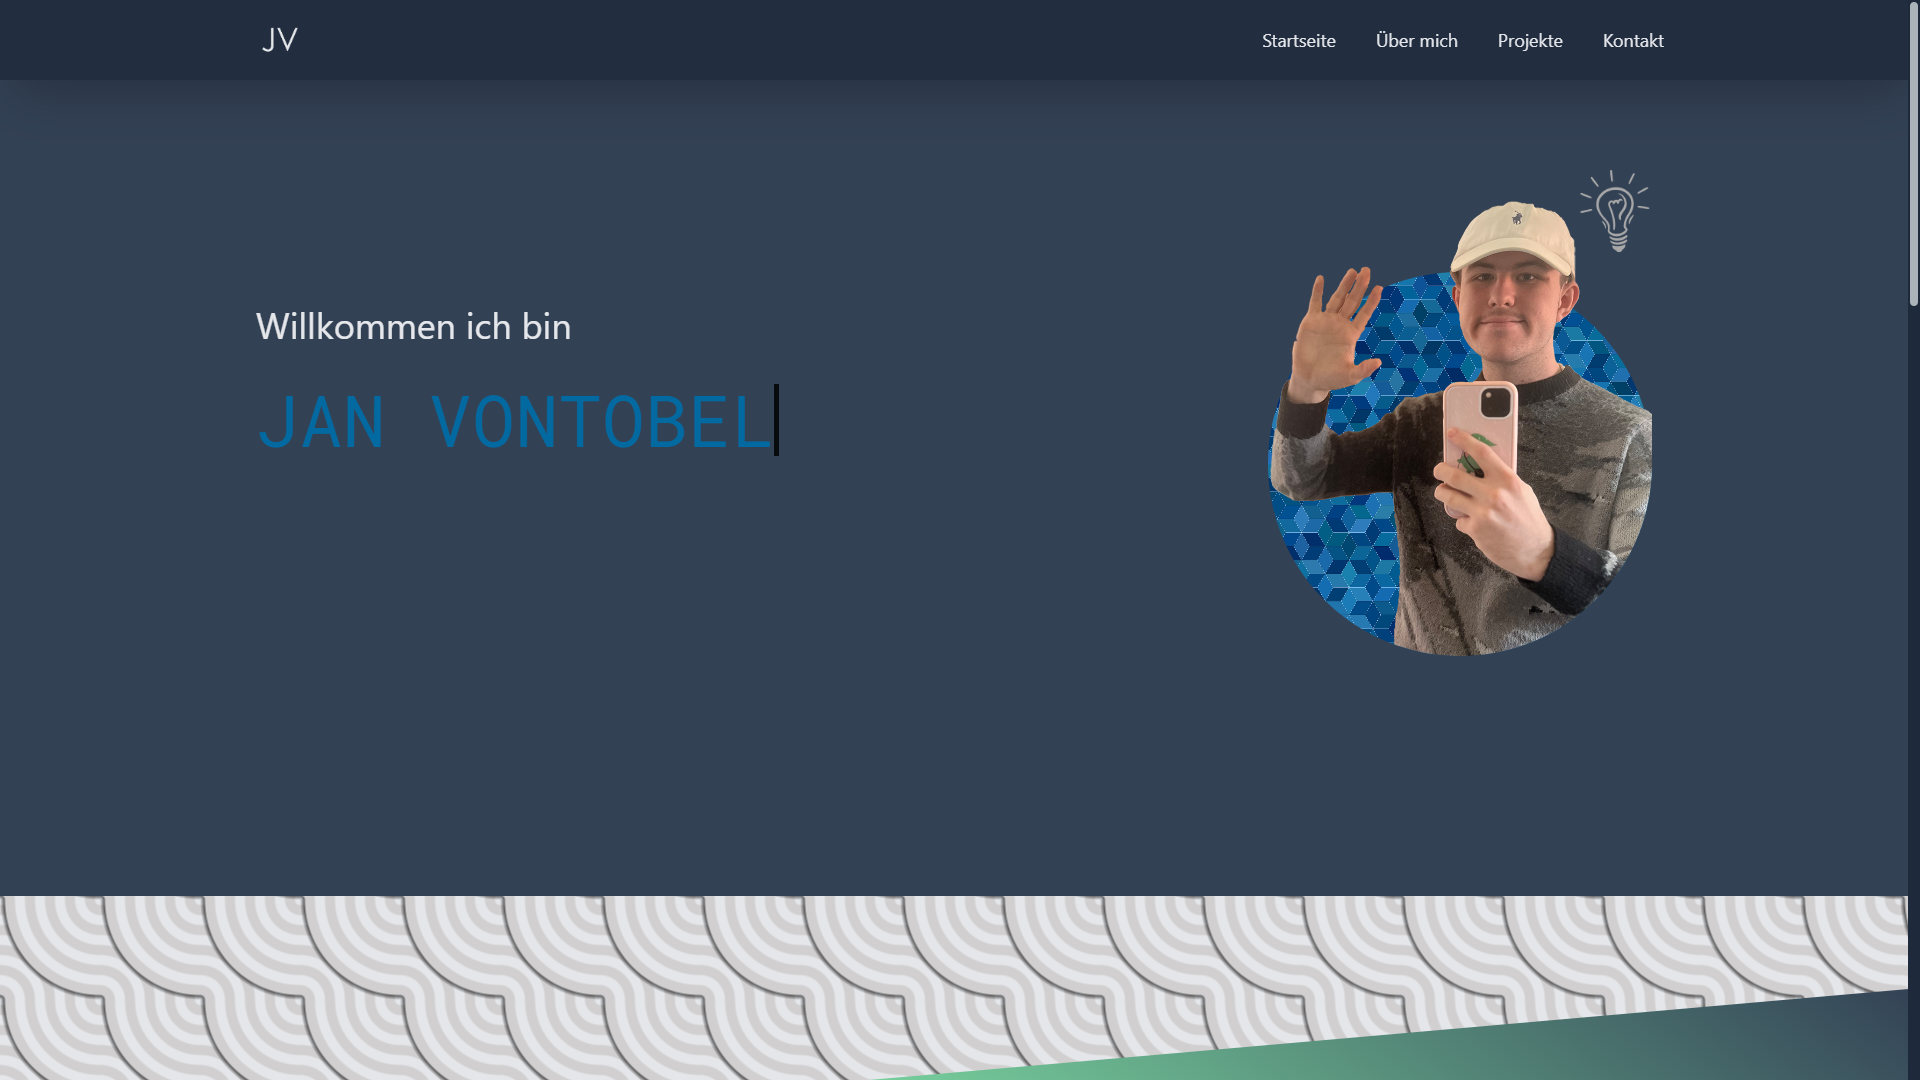
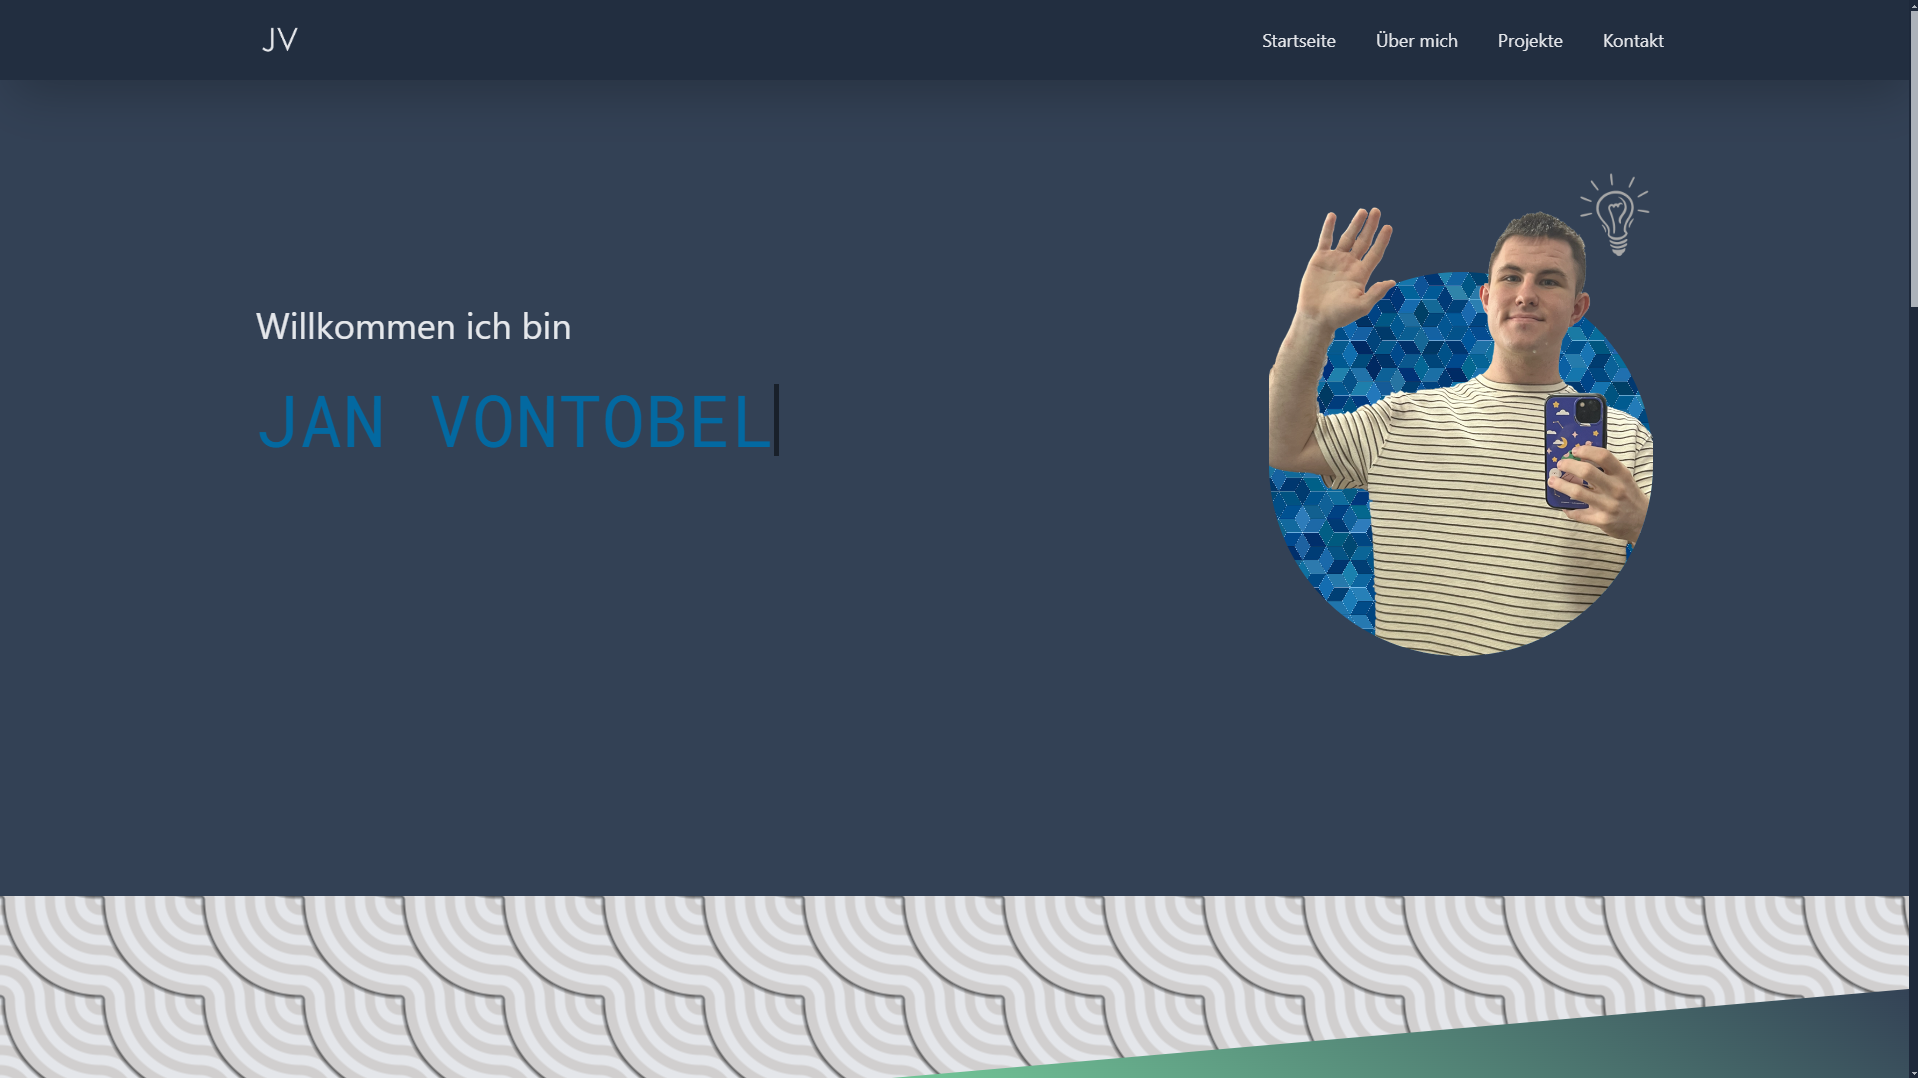
rework

diff --git a/src/Pages/Startseite/index.jsx b/src/Pages/Startseite/index.jsx
@@ -1,8 +1,9 @@
 import { useEffect } from 'react'
 import { Link } from 'react-router-dom'
 import background from '../../images/cube-background-2484131_1920.jpg'
-import me from '../../images/mehomeNew.png'
+import me from '../../images/me2.png'
 import jsLogo from '../../images/jsLogo.png'
+import typescriptLogo from '../../images/typescriptLogo.png'
 import htmlLogo from '../../images/hmtlLogo.png'
 import cssLogo from '../../images/cssLogo.png'
 import cSharpLogo from '../../images/cSharpLogo.png'
@@ -16,6 +17,7 @@ import firebaseLogo from '../../images/firebaseLogo.png'
 import aspDotNetLogo from '../../images/ASPNETLogo.png'
 import arbeitsPlatz from '../../images/IMG_8600.jpg'
 import lightbulb from '../../images/lightbulp.png'
+import javaLogo from '../../images/javaLogo.png'
 
 function Startseite() {
   useEffect(() => {
@@ -60,7 +62,7 @@ function Startseite() {
               <img
                 src={me}
                 alt='Bild von mir Jan Vontobel'
-                className='personImg relative z-20 left-4 md:ease-in-out duration-300'
+                className='personImg relative z-20 left-8 md:ease-in-out duration-300'
               />
             </div>
           </div>
@@ -71,15 +73,17 @@ function Startseite() {
           Was mache ich
         </h2>
         <p className='mx-auto text-xl max-w-2xl'>
-          In den letzten 2 Jahren habe ich eine Leidenschaft für die
+          In den letzten 3 Jahren habe ich eine Leidenschaft für die
           Applikationsentwicklung entdeckt, die ich vor meinem Eintritt in die
           Informatikmittelschule so nicht erwartet hätte. Mit besonderem Fokus
           auf die Webentwicklung habe ich schon einige schulische, wie auch
           private Projekte realisiert. In der Entwicklung von Webseiten kann ich
-          meiner Kreativität freien lauf lassen und mir immer wieder neue
-          Grenzen setzen. In meinem Praktikum erhoffe ich mir, dass ich meine
-          Kreativität wie auch meine Fähigkeiten einzusetzen lerne und diese
-          auch noch erweitere.
+          meiner Kreativität freien Lauf lassen und mir immer wieder neue
+          Grenzen setzen. Besonders interessant finde ich die Möglichkeit, neben
+          der Frontend-Entwicklung auch Backends zu programmieren, um
+          vollständige Applikationen zu entwickeln. In meinem Praktikum erhoffe
+          ich mir, dass ich meine Kreativität wie auch meine Fähigkeiten
+          einzusetzen lerne und diese auch noch erweitere.
         </p>
         <button className='linkButton mt-20 mx-auto text-lg md:text-xl text-gray-200 bg-sky-700 hover:bg-sky-800 font-medium rounded-lg px-5 py-3.5'>
           <Link to='/überMich'>Erfahren Sie mehr über mich</Link>
@@ -91,6 +95,14 @@ function Startseite() {
           <div className='hiddenElement bg-gray-200 w-52 h-52 rounded-xl'>
             <img className=' h-52 py-4 mx-auto' src={jsLogo} alt='JavaScript' />
             <h1 className=' text-center text-lg'>JavaScript</h1>
+          </div>
+          <div className='hiddenElement bg-gray-200 w-52 h-52 rounded-xl'>
+            <img
+              className=' h-52 py-4 mx-auto'
+              src={typescriptLogo}
+              alt='TypeScript'
+            />
+            <h1 className=' text-center text-lg'>TypeScript</h1>
           </div>
           <div className='hiddenElement bg-gray-200 w-52 h-52 rounded-xl'>
             <img className=' h-52 py-4 mx-auto' src={cssLogo} alt='CSS' />
@@ -107,6 +119,10 @@ function Startseite() {
               alt='C-Sharp'
             />
             <h1 className=' text-center text-lg'>C#</h1>
+          </div>
+          <div className='hiddenElement bg-gray-200 w-52 h-52 rounded-xl'>
+            <img className=' h-52 py-4 mx-auto' src={javaLogo} alt='Java' />
+            <h1 className=' text-center text-lg'>Java</h1>
           </div>
           <div className='hiddenElement bg-gray-200 w-52 h-52 rounded-xl'>
             <img className=' h-52 py-4 mx-auto' src={gitLogo} alt='Git' />
@@ -167,16 +183,18 @@ function Startseite() {
             Meine Projekte
           </h2>
           <p className='text-xl max-w-2xl text-slate-700'>
-            Aus Neugier gegenüber neuen Methoden um Projekte zu realisieren,
+            Aus Neugier gegenüber neuen Methoden, um Projekte zu realisieren,
             stelle ich mich bei jedem meiner Projekte neuen Herausforderungen.
             Mit einer Liebe fürs Detail gefällt mir die Arbeit im Webbereich am
             besten, weshalb ein Grossteil meiner privaten Projekte auch
             Webapplikationen sind. Ich programmiere auch mit C#. In Verbindung
-            mit der Webentwicklung kann ich C# dann auch in der Entwicklung von
-            Backends anwenden. Momentan bin ich dabei, erste Projekte mit dem
-            JavaScript Framework React zu realisieren, da dieses Framework sehr
-            interessant ist und auch eines der meistbenutzten JavaScript
-            Frameworks ist.
+            mit der Webentwicklung kann ich C# in der Entwicklung von Backends
+            anwenden. Zudem habe ich bereits erste Erfahrungen mit Java gemacht,
+            was sich nicht stark von C# unterscheidet. In Zukunft würde ich
+            gerne lernen, wie man in Java Backends entwickelt, zum Beispiel mit
+            Spring Boot. Ich habe bereits einige Projekte mit React und
+            TypeScript realisiert, da ich dieses Framework sehr interessant
+            finde und es auch weit verbreitet ist.
           </p>
           <button className='mt-20 flex mx-auto justify-center text-lg md:text-xl text-gray-200 bg-sky-700 hover:bg-sky-800 font-medium rounded-lg px-5 py-3.5'>
             <Link to='/projekte'>Zu meinen Projekten</Link>

diff --git a/src/App.jsx b/src/App.jsx
@@ -15,6 +15,7 @@ import TodoList from './Pages/TodoList'
 import RandomFact from './Pages/RandomFact'
 import Portfolio from './Pages/PortfolioWebsite'
 import Contact from './Pages/Contact'
+import EcoMania from './Pages/EcoMania'
 
 function ScrollToTop() {
   const { pathname } = useLocation()
@@ -34,19 +35,19 @@ function App() {
         <Route path='/' element={<Layout />}>
           <Route index element={<Startseite />} />
           <Route path='überMich' element={<AboutMe />} />
-          <Route path='projekte' element={<Projekte />} />
-          <Route path='projekte/weatherGuru' element={<WeatherGuru />} />
-          <Route path='projekte/cooLet' element={<CooLet />} />
-          <Route path='projekte/passwordGolem' element={<PasswordGolem />} />
-          <Route path='projekte/meinErstesBackend' element={<ShoeBackend />} />
-          <Route path='projekte/quizGame' element={<QuizGame />} />
-          <Route
-            path='projekte/schereSteinPapier'
-            element={<RockPaperScissors />}
-          />
-          <Route path='projekte/todoListe' element={<TodoList />} />
-          <Route path='projekte/randomFact' element={<RandomFact />} />
-          <Route path='projekte/portfolio' element={<Portfolio />} />
+          <Route path='projekte'>
+            <Route index element={<Projekte />} />
+            <Route path='weatherGuru' element={<WeatherGuru />} />
+            <Route path='ecoMania' element={<EcoMania />} />
+            <Route path='cooLet' element={<CooLet />} />
+            <Route path='passwordGolem' element={<PasswordGolem />} />
+            <Route path='meinErstesBackend' element={<ShoeBackend />} />
+            <Route path='quizGame' element={<QuizGame />} />
+            <Route path='schereSteinPapier' element={<RockPaperScissors />} />
+            <Route path='todoListe' element={<TodoList />} />
+            <Route path='randomFact' element={<RandomFact />} />
+            <Route path='portfolio' element={<Portfolio />} />
+          </Route>
           <Route path='kontakt' element={<Contact />} />
         </Route>
       </Routes>

diff --git a/src/Pages/EcoMania/index.jsx b/src/Pages/EcoMania/index.jsx
@@ -1,0 +1,50 @@
+import { Link } from 'react-router-dom'
+
+function EcoMania() {
+  return (
+    <>
+      <div className='pt-28 pb-[2.5rem] bg-slate-700 text-gray-200'>
+        <h1 className='text-center text-sky-700 font-bold text-2xl md:text-3xl'>
+          EcoMania
+        </h1>
+        <h1 className=' text-center text-xl md:text-2xl '>
+          <Link
+            to='https://github.com/Spogotenau/IDPA_Hauptprojekt'
+            target='_blank'
+            rel='noopener noreferrer'
+            className='hover:text-sky-700'
+          >
+            &lt;Github Link /&gt;
+          </Link>
+        </h1>
+      </div>
+      <div>
+        <div className=' text-lg mt-16 mx-4 md:mx-auto md:w-2/5 p-8 bg-gray-300 rounded-xl'>
+          <p>
+            EcoMania war mein IDPA-Projekt, welches ich zusammen mit drei
+            Klassenkameraden realisiert habe. Die Applikation wurde mit React
+            und TypeScript entwickelt. Für das Styling haben wir Tailwind CSS
+            und die shadcn/ui Library verwendet. Auf EcoMania können Schüler
+            spielerisch durch das Lösen von Quizzen Schulstoff lernen. Als
+            Lehrer mit einem Admin-Konto hat man die Möglichkeit, die gelösten
+            Quizze der Schüler einzusehen und neue Fragen sowie Kategorien zu
+            erstellen. Als Schüler hat man die Möglichkeit, seine gelösten
+            Quizze in der persönlichen Statistikseite anzusehen. Bei den Quizzen
+            gibt es zwei verschiedene Fragearten: Multiple-Choice-Fragen und
+            Richtig-oder-Falsch-Fragen.
+          </p>
+        </div>
+        <div className='mt-16 mx-auto md:w-2/5 w-5/6 mb-16'>
+          <iframe
+            className=' w-full aspect-video'
+            src='https://youtube.com/embed/Eb5iRqAhudo'
+            title='YouTube video player'
+            allow='accelerometer; autoplay; clipboard-write; encrypted-media; gyroscope; picture-in-picture; web-share; fullscreen'
+          ></iframe>
+        </div>
+      </div>
+    </>
+  )
+}
+
+export default EcoMania

diff --git a/src/Pages/Projekte/index.jsx b/src/Pages/Projekte/index.jsx
@@ -7,6 +7,7 @@ import todoList from '../../images/todoList.png'
 import rockPaperScissors from '../../images/rockPaperScissors.png'
 import randomFact from '../../images/randomFacts.png'
 import portfolio from '../../images/portfolioScreen.png'
+import ecoMania from '../../images/idpaScreen.png'
 import { Link } from 'react-router-dom'
 
 function Projekte() {
@@ -28,6 +29,22 @@ function Projekte() {
               <p className=' text-lg px-2 pb-1'>
                 Weather Guru ist eine Wetter App, welche die aktuelle Temperatur
                 von verschiedenen Orten der Welt zurückgibt.
+              </p>
+            </div>
+          </Link>
+        </div>
+        <div className='project mt-20 border-2 rounded-3xl shadow-2xl shadow-slate-800 border-slate-600 overflow-hidden w-11/12 md:w-[550px] md:h-[341.75px] mx-auto'>
+          <Link to='/projekte/ecoMania'>
+            <img
+              src={ecoMania}
+              alt='EcoMania'
+              className=' w-[550px] md:h-[295.92px] md:object-cover'
+            />
+            <div className='description weatherGuru bg-gray-300 top-0 relative'>
+              <h1 className=' text-2xl px-2 py-1'>EcoMania</h1>
+              <p className=' text-lg px-2 pb-1'>
+                EcoMania ist ein Online-Lernplattform um sich spielerisch auf
+                Prüfungen vorzubereiten.
               </p>
             </div>
           </Link>

diff --git a/src/Pages/AboutMe/index.jsx b/src/Pages/AboutMe/index.jsx
@@ -53,7 +53,7 @@ function AboutMe() {
               </p>
               <p className=' text-sky-500 font-bold'>
                 Informatikmittelschule IMS Baden,
-                <br /> 2. Jahr abgeschlossen
+                <br /> 3. Jahr abgeschlossen
               </p>
             </div>
           </div>
@@ -74,10 +74,11 @@ function AboutMe() {
           <p>
             <i>
               &quot;In meiner Freizeit bin ich gerne mit meinen Freunden
-              unterwegs. Zudem besuche ich seit einem Jahr 3 mal wöchentlich ein
-              Fitnessstudio, um meinen Körper sowie meine Psyche, gesund zu
-              halten. Ich höre mir sehr gerne Podcasts über verschiedenste
-              Themen an.&quot;
+              unterwegs. Zudem besuche ich seit mehreren Jahren mehrmals
+              wöchentlich ein Fitnessstudio, um meinen Körper sowie meine Psyche
+              gesund zu halten. Ich lese gerne Bücher, sofern ich die Zeit dazu
+              finde. Ebenfalls höre ich mir sehr gerne Podcasts über
+              verschiedenste Themen an.&quot;
             </i>
           </p>
         </div>
